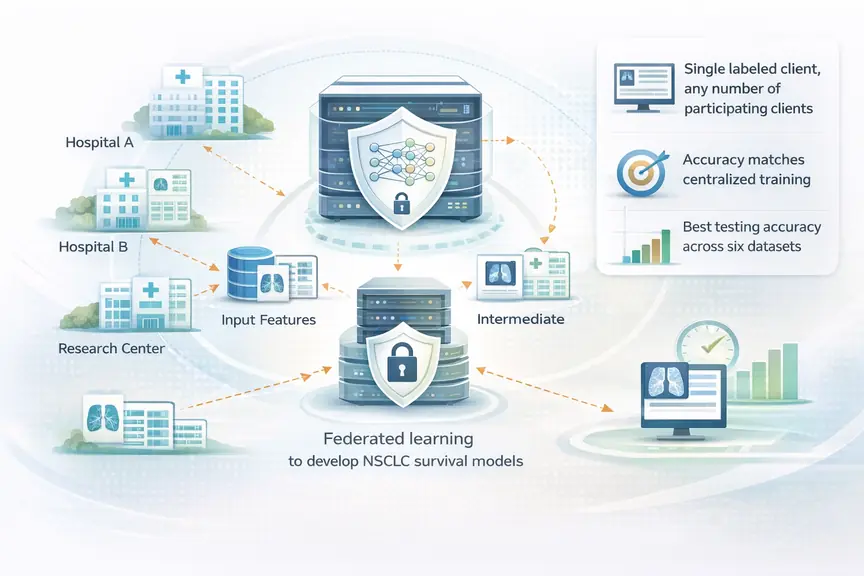
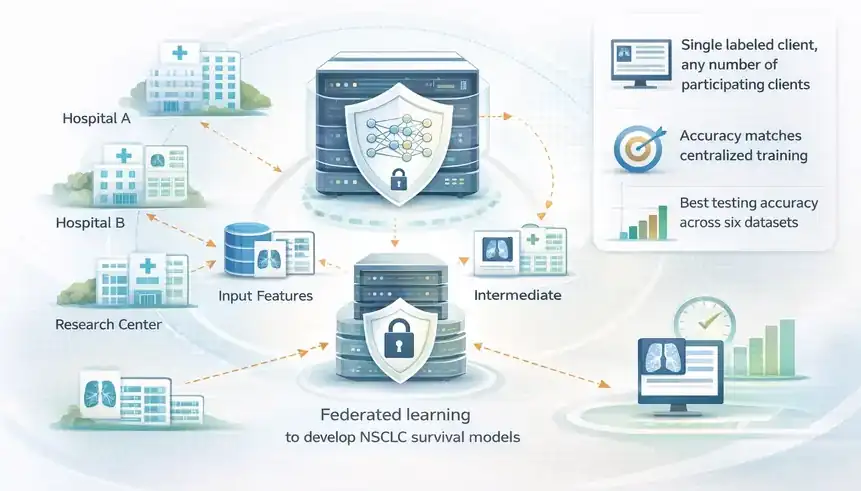
cropping graphical abstracts

diff --git a/_publications/2021-01-01-implementation-of-the-australian-computer-assisted-theragnostics-auscat-network-for-radiation-oncology-data-extraction-reporting-and-distributed-learning.md b/_publications/2021-01-01-implementation-of-the-australian-computer-assisted-theragnostics-auscat-network-for-radiation-oncology-data-extraction-reporting-and-distributed-learning.md
@@ -9,7 +9,7 @@ venue: 'Journal of Medical Imaging and Radiation Oncology'
 paperurl: 'https://doi.org/10.1111/1754-9485.13287'
 bibtexurl: '/files/bib/implementation-of-the-australian-computer-assisted-theragnostics-auscat-network-for-radiation-oncology-data-extraction-reporting-and-distributed-learning.bib'
 citation: 'Matthew Field, Shalini Vinod, Noel Aherne, Martin Carolan, Andre Dekker, Geoff Delaney, Stuart Greenham, Eric Hau, Joerg Lehmann, Joanna Ludbrook, Andrew Miller, Angela Rezo, Jothybasu Selvaraj, Jonathan Sykes, Lois Holloway, David Thwaites (2021). &quot;Implementation of the Australian Computer-Assisted Theragnostics (AusCAT) network for radiation oncology data extraction, reporting and distributed learning.&quot; <i>Journal of Medical Imaging and Radiation Oncology</i>. 65(5), 627-636.'
-graphical_abstract: /images/publications/auscat_graphical_abstract_960.webp
+graphical_abstract: /images/publications/implementation_of_auscat_graphical_abstract_960.webp
 graphical_abstract_alt: "Overview of the implementation of the Australian Computer-Assisted Theragnostics (AusCAT) network for secure, harmonized data extraction, standardization, analysis and federated learning in radiation oncology to support multi-institutional precision oncology research while preserving data privacy."
 ---
 

diff --git a/_publications/2022-01-01-infrastructure-platform-for-privacy-preserving-distributed-machine-learning-development-of-computer-assisted-theragnostics-in-cancer.md b/_publications/2022-01-01-infrastructure-platform-for-privacy-preserving-distributed-machine-learning-development-of-computer-assisted-theragnostics-in-cancer.md
@@ -9,7 +9,7 @@ venue: 'Journal of Biomedical Informatics'
 paperurl: 'https://doi.org/10.1016/j.jbi.2022.104181'
 bibtexurl: '/files/bib/infrastructure-platform-for-privacy-preserving-distributed-machine-learning-development-of-computer-assisted-theragnostics-in-cancer.bib'
 citation: 'Matthew Field, David I. Thwaites, Martin Carolan, Geoff P. Delaney, Joerg Lehmann, Jonathan Sykes, Shalini Vinod, Lois Holloway (2022). &quot;Infrastructure platform for privacy-preserving distributed machine learning development of computer-assisted theragnostics in cancer.&quot; <i>Journal of Biomedical Informatics</i>. 134, 104181.'
-graphical_abstract: /images/publications/cardiac_event_federated_learning_optimized_960.webp
+graphical_abstract: /images/publications/cardiac_event_federated_learning_optimized_1280.webp
 graphical_abstract_alt: "Conceptual overview of the proposed distributed machine learning infrastructure for computer-assisted cancer theragnostics, showing secure multi-site data harmonization, privacy-preserving collaborative training, and development of predictive models for treatment-related clinical events."
 ---
 